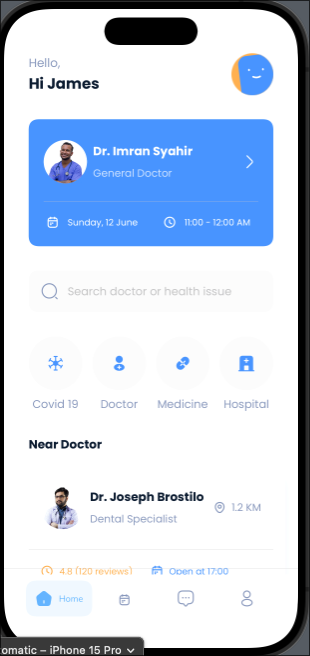
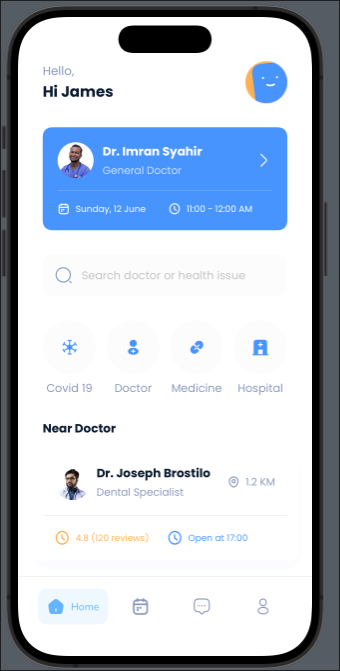
add partial acessibility

diff --git a/Lara/Views/NearDoctorList.swift b/Lara/Views/NearDoctorList.swift
@@ -74,6 +74,8 @@ struct NearDoctorCard: View {
             .cornerRadius(Sizes.cornerRadius)
             .shadow(color: Colors.shadow, radius: 10, x: 2, y: 12)
         }
+        .accessibilityLabel("Near doctor \(nearDoctor.name), \(nearDoctor.position), button")
+        .accessibilityValue("Doctor \(nearDoctor.name), \(nearDoctor.position) is at distance \(nearDoctor.distanceToPatient) KM from you. Doctor's rating is \(nearDoctor.rating) with \(nearDoctor.qtyOfReviews). Doctor will be open at \(nearDoctor.openAt). Tap to get more information about him.")
     }
 }
 
@@ -93,6 +95,7 @@ struct NearDoctorList: View {
         }
         .padding(0)
         .frame(maxWidth: .infinity, alignment: .center)
+        .accessibilityLabel("Near doctors list")
     }
 }
 

diff --git a/Lara/Views/IssueList.swift b/Lara/Views/IssueList.swift
@@ -22,6 +22,7 @@ struct IssueView: View {
                 .poppinsRegular(size: 15)
                 .foregroundColor(Colors.blackishGray)
         }
+        .accessibilityLabel("Issue - \(issue.issue), button")
     }
 }
 
@@ -35,6 +36,7 @@ struct IssueList: View {
         }
         .padding(0)
         .frame(width: Sizes.elementWidth)
+        .accessibilityLabel("List of issues")
     }
 }
 

diff --git a/Lara/Views/NextAppointment.swift b/Lara/Views/NextAppointment.swift
@@ -75,6 +75,8 @@ struct NextAppointment: View {
             .background(Colors.blue)
             .cornerRadius(Sizes.cornerRadius)
         }
+        .accessibilityLabel("Your next appointment, button")
+        .accessibilityValue("Your next appointment with doctor \(info.doctorPosition), \(info.doctorPosition) scheduled for \(info.date), \(info.time). Tap to get more information.")
     }
 }
 

diff --git a/Lara/ContentView.swift b/Lara/ContentView.swift
@@ -37,7 +37,6 @@ struct ContentView: View {
     ContentView()
 }
 
-
 #Preview {
     ContentView()
         .environment(\.locale, .init(identifier: "ru"))

diff --git a/readme.md b/readme.md
@@ -1,12 +1,16 @@
 # 2 lab work / iOS + SwiftUI
 Note: the card in the 'near doctor' section in russian localization is too big and it take 2 lines and I'm think that it's a design flaw.
 
+Couldn't test accessibility because vm has no sound.
+
 # Screenshots
 ![first screenshot](assets/first.png)
 ![second screenshot](assets/second.png)
 ![third screenshot](assets/third.png)j
+![fouth screenshot](assets/fourth.png)
 
 # How to start
 ~~1. Buy MacBook~~
 1. Clone this repository(from XCode or command line
+
 And you are ready to go!
